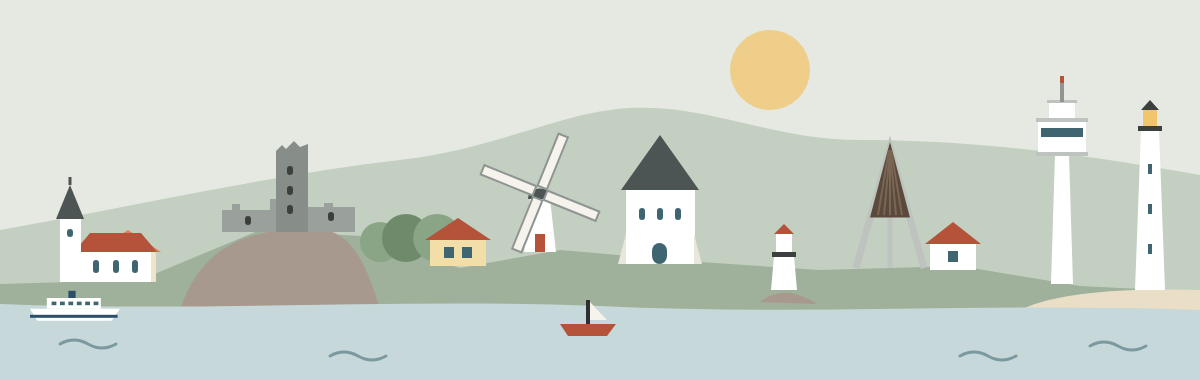
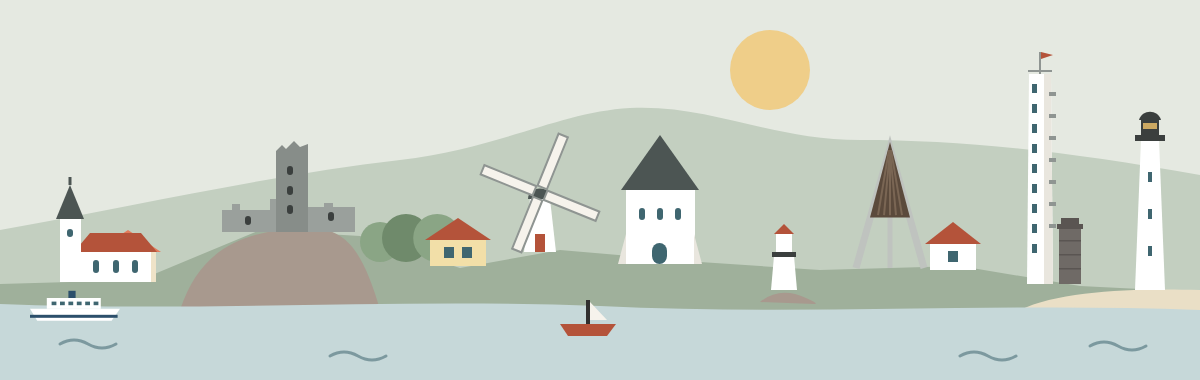
Bornholmertårnet tegnet som den smalle, firkantede betonsøjle med stentårnet ved siden af; Dueodde Fyr med sort lanterne
Claude-Session: https://claude.ai/code/session_01VxcS93fhra8UrNjxG5o7VL

Changed region(s): [[0.8325, 0.1447, 0.9867, 0.7526]]

diff --git a/tools/tegning.py b/tools/tegning.py
@@ -73,8 +73,9 @@ def lighthouse_sq(x, gy, h=96, body="brick"):
 
 def lighthouse_tall(x, gy, h=190):
     o = f'<path d="M{x - 15} {gy} L{x - 9} {gy - h} L{x + 9} {gy - h} L{x + 15} {gy}Z" fill="{C["white"]}"/>'
-    o += f'<rect x="{x - 12}" y="{gy - h - 4}" width="24" height="5" fill="{C["dark"]}"/><rect x="{x - 7}" y="{gy - h - 20}" width="14" height="16" fill="{C["sol"]}"/>'
-    o += f'<path d="M{x - 9} {gy - h - 20} L{x} {gy - h - 30} L{x + 9} {gy - h - 20}Z" fill="{C["dark"]}"/>'
+    o += f'<rect x="{x - 15}" y="{gy - h - 5}" width="30" height="6" fill="{C["dark"]}"/><rect x="{x - 9}" y="{gy - h - 20}" width="18" height="15" fill="{C["dark"]}"/>'
+    o += f'<rect x="{x - 7}" y="{gy - h - 17}" width="14" height="6" fill="{C["sol"]}" opacity=".8"/>'
+    o += f'<path d="M{x - 11} {gy - h - 20} C{x - 8} {gy - h - 31} {x + 8} {gy - h - 31} {x + 11} {gy - h - 20}Z" fill="{C["dark"]}"/>'
     for i in range(1, 4):
         o += f'<rect x="{x - 2}" y="{gy - h * i / 4 - 6:.0f}" width="4" height="10" fill="{C["deep"]}"/>'
     return o
@@ -178,16 +179,25 @@ def hotel(x, gy, w=150):
 def brickchimney(x, gy, h=110):
     return f'<path d="M{x - 8} {gy} L{x - 5} {gy - h} L{x + 5} {gy - h} L{x + 8} {gy}Z" fill="{C["brick"]}"/><rect x="{x - 6}" y="{gy - h}" width="12" height="6" fill="{C["dark"]}"/>'
 
-def spytower(x, gy, h=200):
-    """Bornholmertårnet ved Dueodde: højt hvidt betontårn (koldkrigens lyttepost) med bred kabine og antennemast."""
-    o = f'<path d="M{x - 11} {gy} L{x - 7} {gy - h * .72:.0f} L{x + 7} {gy - h * .72:.0f} L{x + 11} {gy}Z" fill="{C["white"]}"/>'
-    ky = gy - h * .72
-    o += f'<rect x="{x - 24}" y="{ky - 34:.0f}" width="48" height="34" fill="{C["white"]}"/>'                       # kabinen
-    o += f'<rect x="{x - 26}" y="{ky - 36:.0f}" width="52" height="4" fill="{C["stone"]}"/><rect x="{x - 26}" y="{ky - 2:.0f}" width="52" height="4" fill="{C["stone"]}"/>'
-    o += f'<rect x="{x - 21}" y="{ky - 26:.0f}" width="42" height="9" fill="{C["deep"]}"/>'                          # vinduesbånd
-    o += f'<rect x="{x - 13}" y="{ky - 52:.0f}" width="26" height="16" fill="{C["white"]}"/><rect x="{x - 15}" y="{ky - 54:.0f}" width="30" height="3" fill="{C["stone"]}"/>'
-    o += f'<rect x="{x - 2}" y="{ky - 78:.0f}" width="4" height="26" fill="{C["grey"]}"/>'                          # mast
-    o += f'<rect x="{x - 2}" y="{ky - 78:.0f}" width="4" height="7" fill="{C["red"]}"/>'
+def spytower(x, gy, h=210):
+    """Bornholmertårnet ved Dueodde: smal, firkantet hvid betonsøjle (70 m), lodret række små vinduer,
+    små altaner på siden, fladt tag med rækværk og flag. Ved siden af står det lave, mørke stentårn."""
+    top = gy - h
+    o = f'<path d="M{x - 13} {gy} L{x - 11} {top} L{x + 11} {top} L{x + 13} {gy}Z" fill="{C["white"]}"/>'
+    o += f'<path d="M{x + 4} {gy} L{x + 4} {top} L{x + 11} {top} L{x + 13} {gy}Z" fill="#e9e6de"/>'          # skyggeside
+    for i in range(9):                                                                                          # vinduer
+        o += f'<rect x="{x - 8}" y="{top + 10 + i * 20}" width="5" height="9" fill="{C["deep"]}"/>'
+    for i in range(7):                                                                                          # altaner
+        o += f'<rect x="{x + 9}" y="{top + 18 + i * 22}" width="7" height="4" fill="{C["grey"]}"/>'
+    o += f'<rect x="{x - 12}" y="{top - 4}" width="24" height="2" fill="{C["grey"]}"/>'                        # rækværk
+    o += f'<rect x="{x - 1}" y="{top - 22}" width="2" height="22" fill="{C["grey"]}"/>'                        # flagstang
+    o += f'<path d="M{x + 1} {top - 22} L{x + 13} {top - 19} L{x + 1} {top - 15}Z" fill="{C["red"]}"/>'      # flag
+    # det gamle stentårn ved siden af
+    sx, sh = x + 30, 56
+    o += f'<rect x="{sx - 11}" y="{gy - sh}" width="22" height="{sh}" fill="#6f6a66"/>'
+    o += f'<rect x="{sx - 13}" y="{gy - sh - 4}" width="26" height="5" fill="#5a5552"/>'
+    o += f'<rect x="{sx - 9}" y="{gy - sh - 10}" width="18" height="6" fill="#5a5552"/>'
+    o += "".join(f'<rect x="{sx - 11}" y="{gy - sh + 12 + i * 14}" width="22" height="1.5" fill="#5a5552"/>' for i in range(3))
     return o
 
 def fishboat(x, y, color="deep"):
@@ -353,8 +363,8 @@ def bornholm():
     b += lighthouse_sq(784, SEA - 14, 34, "white")                          # fyret på Christiansø
     b += watertower(890, 268, 120)                                           # Svaneke vandtårn
     b += houses(930, 1010, 270, 62)
-    b += spytower(1062, 284, 180)                                            # Bornholmertårnet (Dueodde)
-    b += lighthouse_tall(1150, 290, 160)                                     # Dueodde Fyr
+    b += spytower(1040, 284, 210)                                            # Bornholmertårnet (Dueodde)
+    b += lighthouse_tall(1150, 290, 150)                                     # Dueodde Fyr
     f += boat(560, SEA + 10, "red")
     return frame(b, f, sunx=770) + WAVES
 
